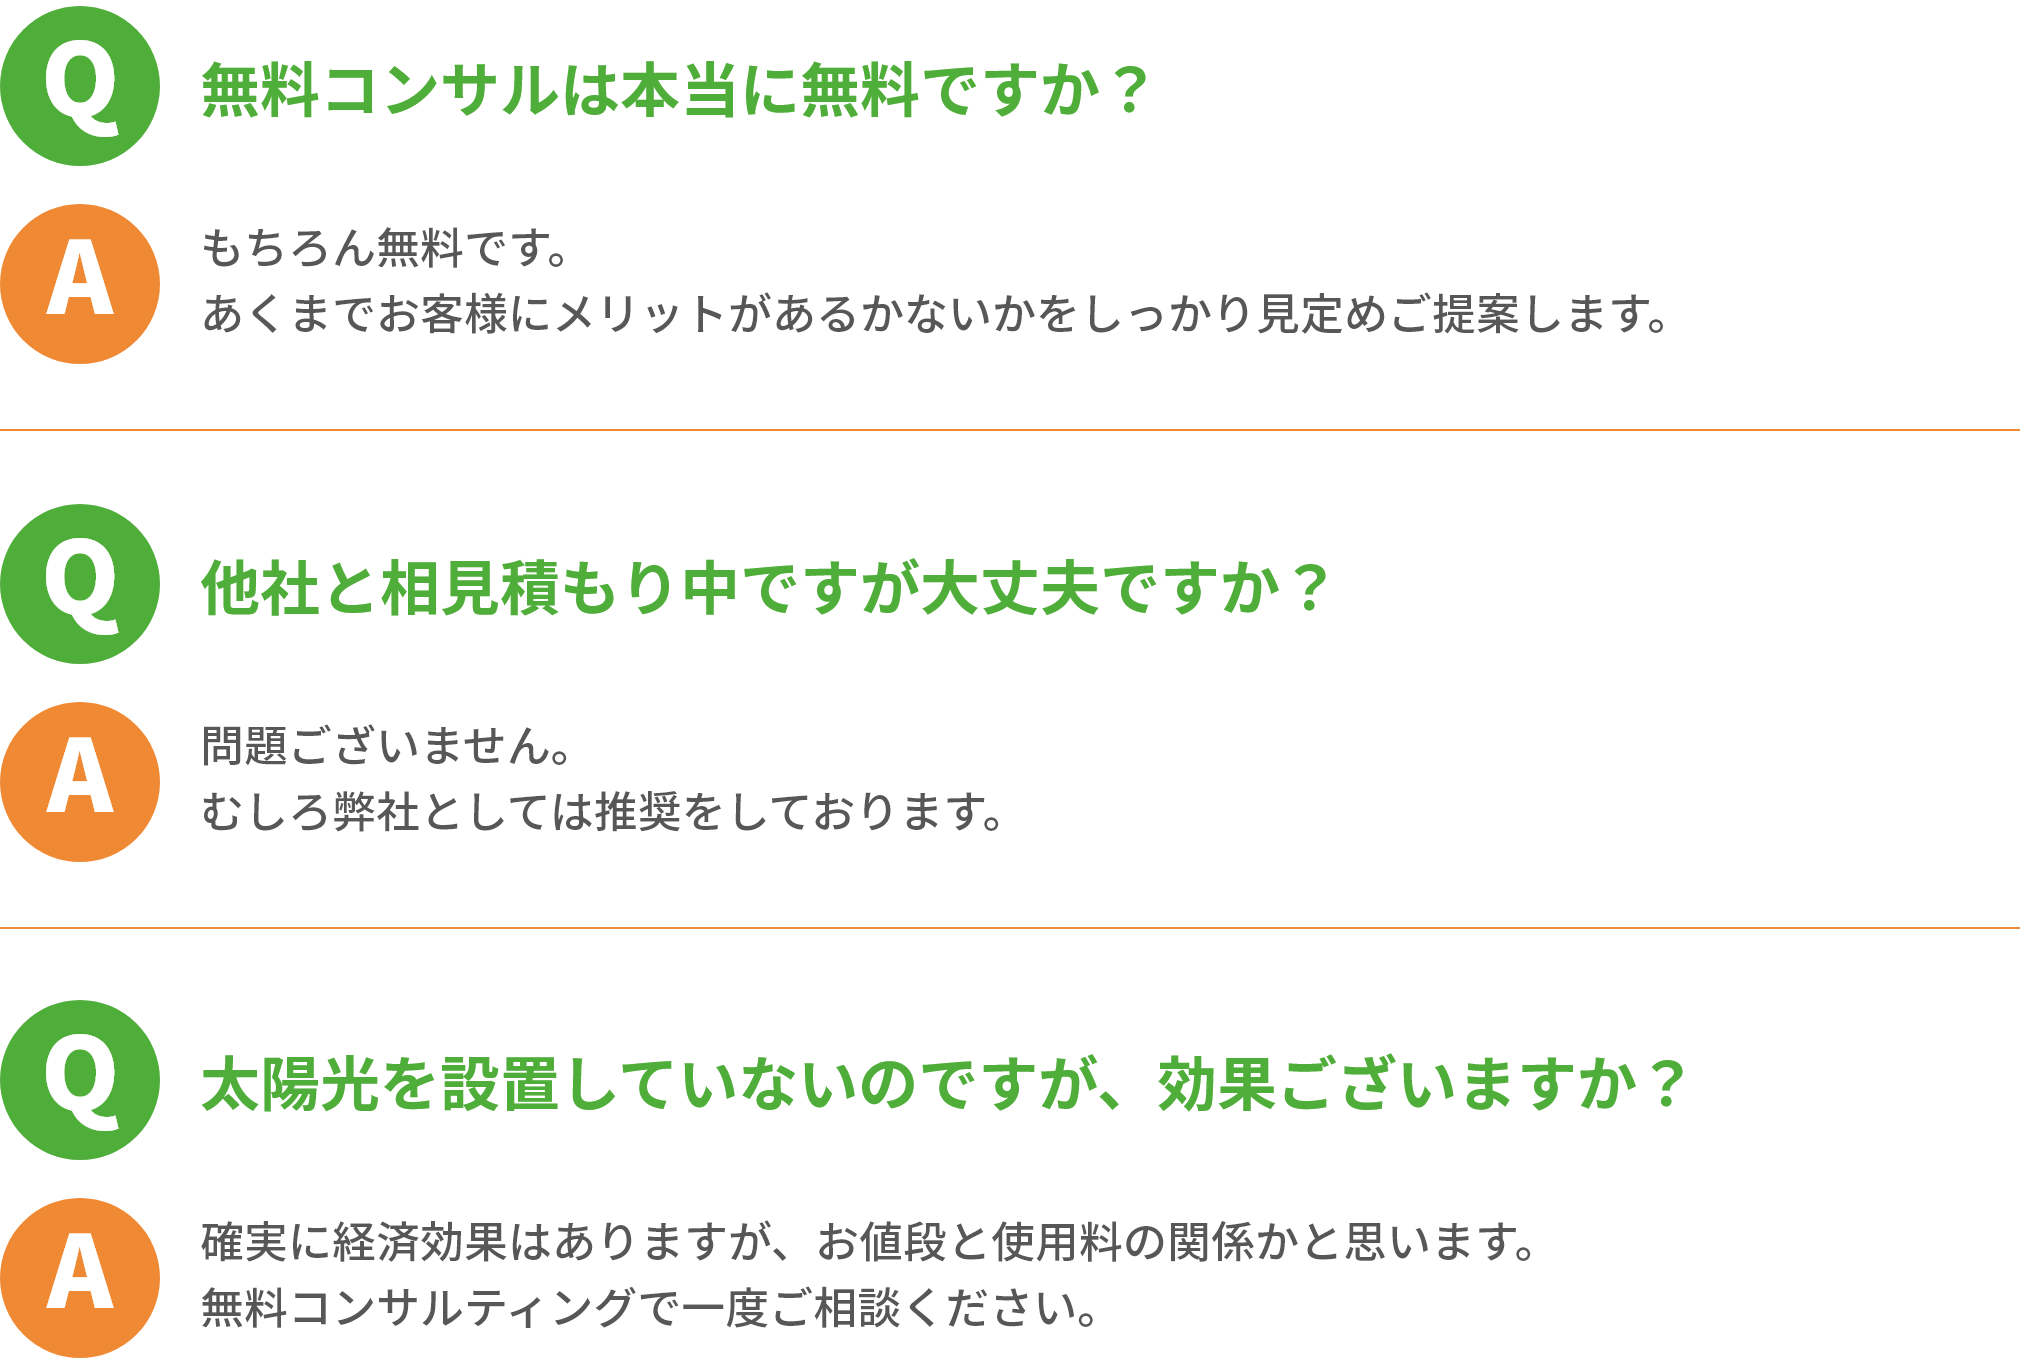
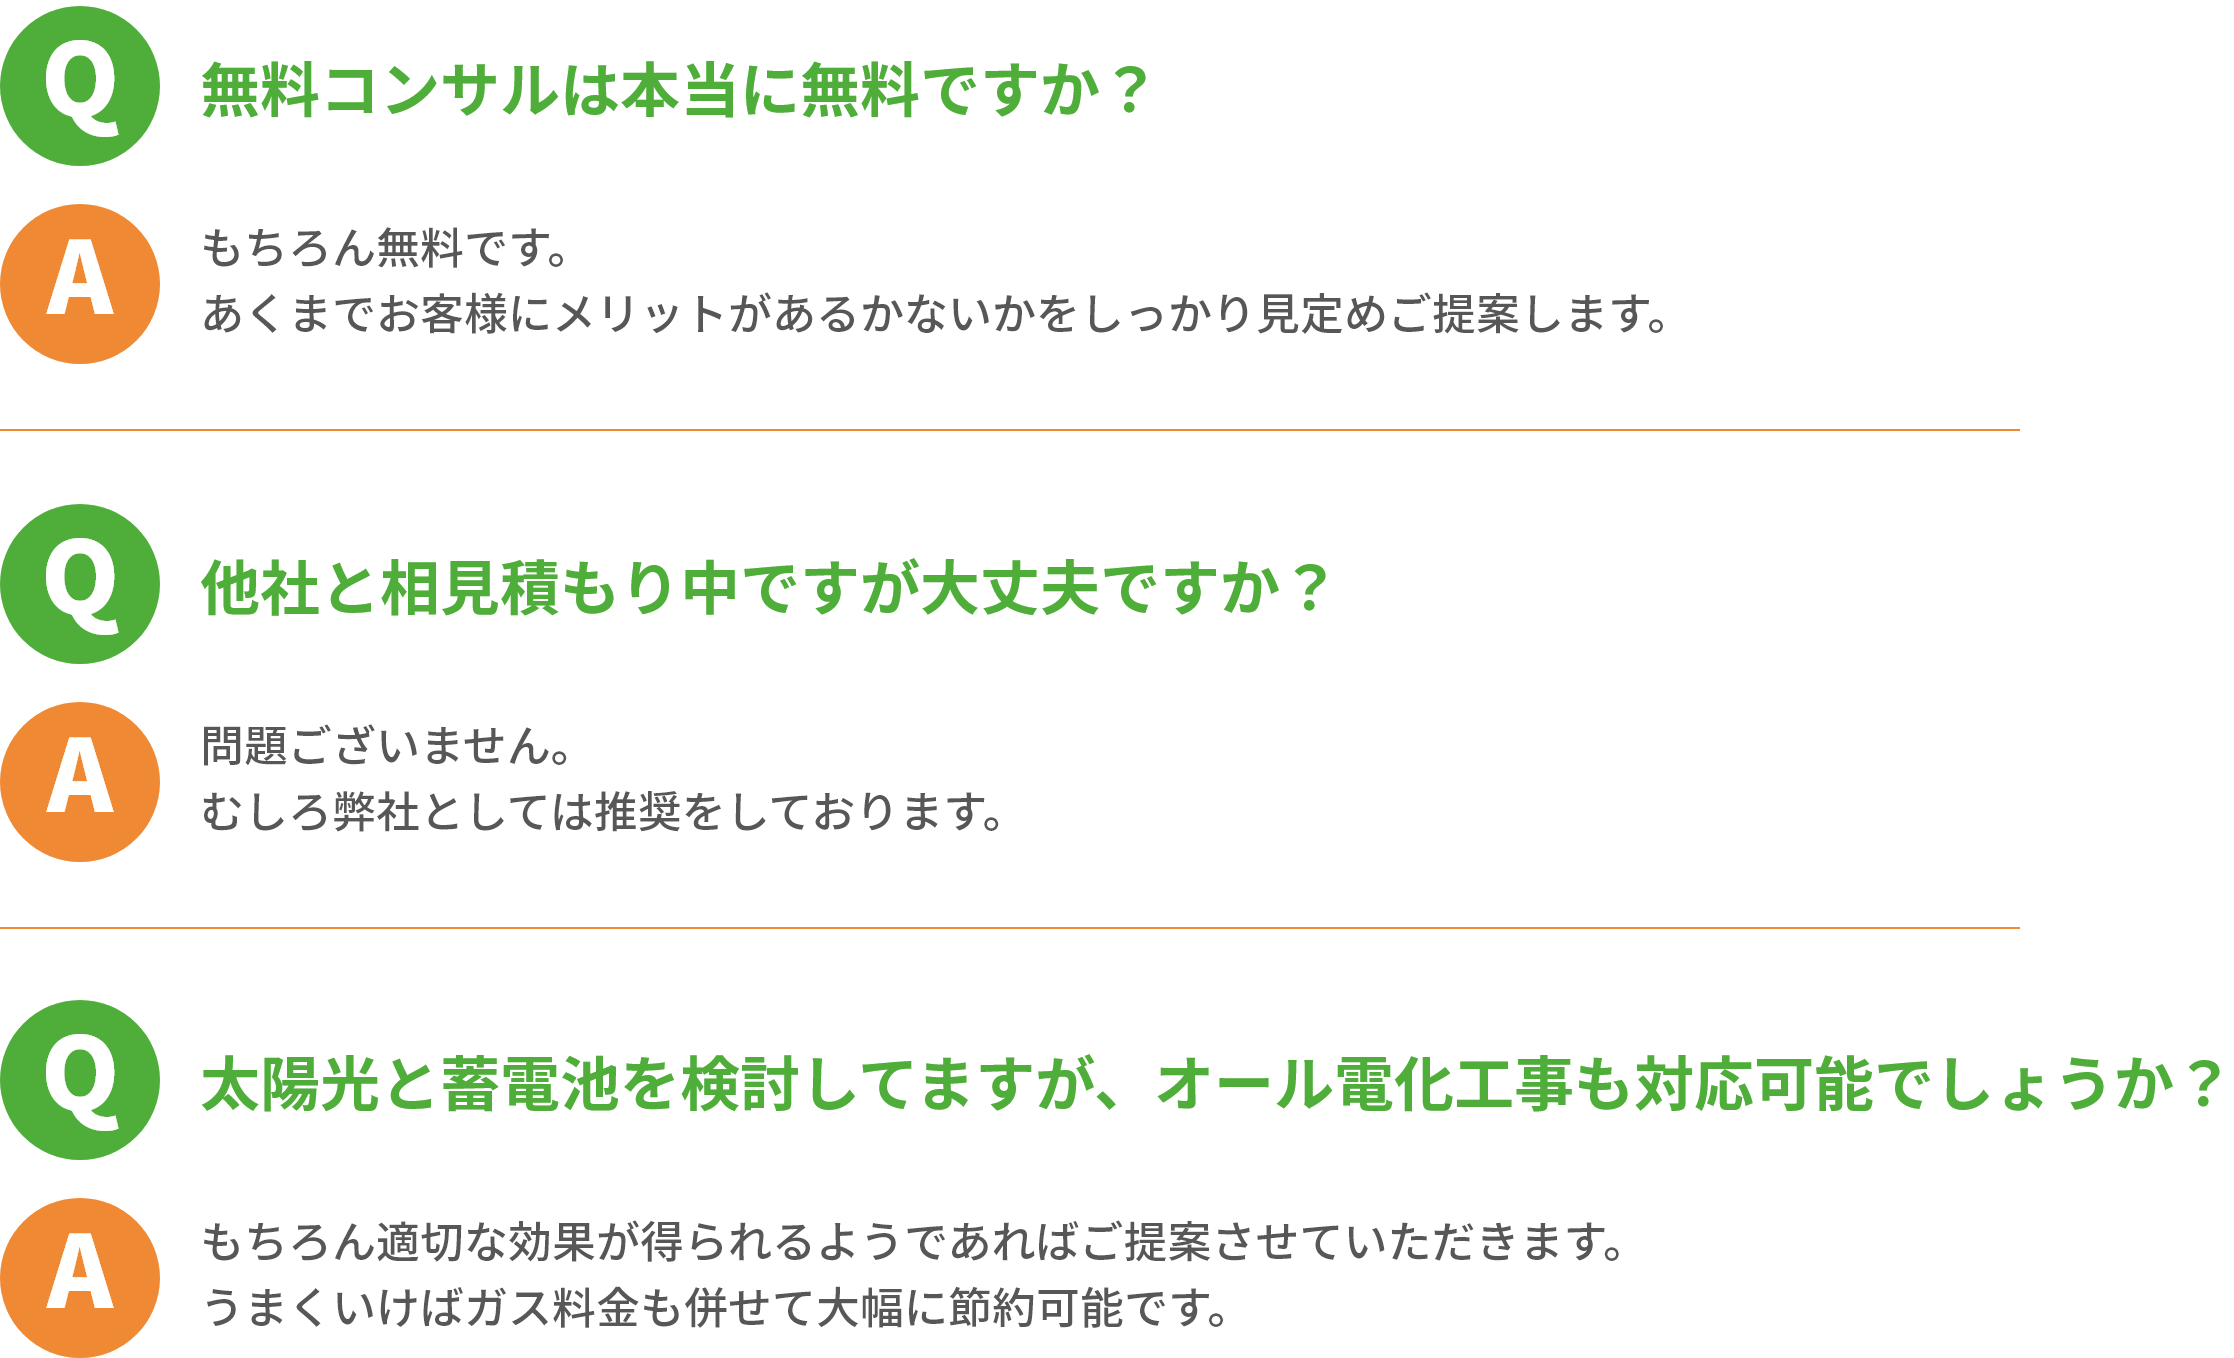
修正部分の対応

diff --git a/index.html b/index.html
@@ -16,7 +16,7 @@
   <header>
     <nav class="navbar navbar-light py-0">
       <div class="container-fluid pe-0">
-        <a class="navbar-brand w-75 py-0" href="#"><img src="image/header_logo.png" alt="" class="w-50"></a>
+        <a class="navbar-brand w-75 py-0" href="#"><img src="image/header_logo.png" alt="" class="w-25"></a>
         <!-- sp -->
         <button class="navbar-toggler d-md-none" type="button" data-bs-toggle="collapse"
           data-bs-target="#navbarNavAltMarkup" aria-controls="navbarNavAltMarkup" aria-expanded="false"
@@ -184,13 +184,7 @@
               <img src="image/reason1_fact.png" class="w-100 d-none d-md-block" alt="">
             </div>
             <div class="col">
-              <img src="image/reason1_fact.png" class="w-100 d-none d-md-block" alt="">
-            </div>
-            <div class="col">
-              <img src="image/reason1_fact.png" class="w-100 d-none d-md-block" alt="">
-            </div>
-            <div class="col">
-              <img src="image/reason1_fact.png" class="w-100 d-none d-md-block" alt="">
+              <img src="image/reason1_fact2.png" class="w-100 d-none d-md-block" alt="">
             </div>
           </div>
 
@@ -199,17 +193,10 @@
             <div class="col">
               <img src="image/reason1_fact.png" class="mx-auto w-100 d-md-none" alt="">
             </div>
-            <div class="col">
-              <img src="image/reason1_fact.png" class="mx-auto w-100 d-md-none" alt="">
-            </div>
             <p></p>
             <div class="col">
-              <img src="image/reason1_fact.png" class="mx-auto w-100 d-md-none" alt="">
+              <img src="image/reason1_fact2.png" class="mx-auto w-100 d-md-none" alt="">
             </div>
-            <div class="col">
-              <img src="image/reason1_fact.png" class="mx-auto w-100 d-md-none" alt="">
-            </div>
-
           </div>
         </div>
 
@@ -227,14 +214,13 @@
           営業～施工管理までワンストップのため少数精鋭
         </p>
         <p class="w-50 mx-auto mb-4" style="font-size: 1.3vw;">
-          文章が入ります文章が入ります文章が入ります文章が入ります。
+          新規の電話相談からアフターフォローまで1人のスタッフが対応します。<br>
+          工事部・受付スタッフ・アフター管理・施工管理すスタッフをなるべく減らし<br>
+          1人が責任もって最後まで蓄電池・太陽光導入をサポート
         </p>
         <div class="card border-0">
           <!-- PC -->
           <div class="row mx-auto w-50 mb-5">
-            <div class="col">
-              <img src="image/reason2_fact-1.png" class="w-100 d-none d-md-block" alt="">
-            </div>
             <div class="col">
               <img src="image/reason2_fact-1.png" class="w-100 d-none d-md-block" alt="">
             </div>
@@ -245,10 +231,6 @@
 
           <!-- SP -->
           <div class="row mx-auto w-50 mb-5">
-            <div class="col">
-              <img src="image/reason2_fact-1.png" class="w-100 d-md-none" alt="">
-            </div>
-            <p class="mt-2"></p>
             <div class="col">
               <img src="image/reason2_fact-1.png" class="w-100 d-md-none" alt="">
             </div>
@@ -273,8 +255,9 @@
           WEB集客のみに集中→店舗型を極力少なくしてコストカット
         </p>
         <p class="w-50 mx-auto mb-4" style="font-size: 1.3vw;">
-          文章が入ります文章が入ります文章が入ります文章が入ります。
-          <br>文章が入ります文章が入ります文章が入ります文章が入ります。
+          WEB集客のプロが多数いる当社はチラシ・店舗等のブランディングよりも、<br>
+          太陽光発電に興味あるお客様にダイレクトにアプローチ！！<br>
+          相互ＷＩＮＷＩＮを考えております。
         </p>
         <div class="card border-0">
           <!-- PC -->
@@ -291,9 +274,6 @@
             </div>
           </div>
         </div>
-        <p class="w-50 mx-auto mb-5" style="font-size: 1.3vw;">
-          文章が入ります文章が入ります文章が入ります文章が入ります。
-        </p>
 
 
         <!-- Nationwide support Card -->
@@ -352,8 +332,10 @@
           <img src="image/nattoku.png" class="w-50 mb-3 mt-5" alt="">
           <div class="left">
             <br>当社はあくまでお客様に合ったプランを提供することを目的としております。
-            <br>必要のない方にはオススメは致しません。
-            <br>まずは相談という方も是非当社にご相談ください！
+            <br>屋根の形・地域・電気使用量を総合的に判断して必要のない方にはオススメは致しません。
+            <br>他社に進められて悩んでる方・契約目前の方・ちょっとだけ太陽光・蓄電池に興味がある方・
+            <br>まずは相談という方も是非当社で！セカンドオピニオンとしてもお使いください。
+            <br>小さな１歩で快適な電気ライフを送れることをお約束いたします。
           </div>
           <img src="image/anshin_family.png" class="w-50 mb-3 mt-5" alt="">
         </div>
@@ -362,7 +344,7 @@
         <!-- 導入事例START -->
         <div class="w-100 mx-auto text-center">
           <img src="image/jirei_title.png" class="w-50 mx-auto" style="margin-top: 6%;" alt="">
-          <img src="image/zenkokutaiou.png" class="w-50 mx-auto" style="margin-top: 6%;" alt="">
+          <img src="image/zenkokutaiou.png" class="w-75 mx-auto" style="margin-top: 6%;" alt="">
 
         </div>
         <!-- 導入事例END -->
@@ -375,7 +357,7 @@
         <!-- 施工の流れEND -->
 
         <!-- よくある質問START -->
-        <div class="mt-5 w-100 mx-auto text-center">
+        <div class="mt-5 mb-3 w-100 mx-auto text-center">
           <img src="image/yokuaru.png" class="w-50 mx-auto" alt="">
           <img src="image/Q&A.png" class="w-50 mx-auto mb-5 mt-5" alt="">
           <a class="navbar-brand w-75" href="#"><img src="image/kuwashiku.png" class="w-50 mb-3" alt=""></a>
@@ -383,7 +365,7 @@
         <!-- よくある質問END -->
 
         <!-- 売却価格をチェックSTART -->
-        <div class="mb-5 mt-5 w-100 mx-auto text-center" style="background-color: #D8F5D1;">
+        <!-- <div class="mb-5 mt-5 w-100 mx-auto text-center" style="background-color: #D8F5D1;">
           <img src="image/baikyakukakaku.png" class="w-50 mx-auto mb-5 mt-5" alt="">
 
           <img src="image/now_elec.png" class="w-50 mb-3" alt="">
@@ -501,27 +483,20 @@
                 </div>
               </div>
             </div>
-          </div>
+          </div> -->
 
 
-          <img src="image/muryougenchi.png" class="w-50 mt-2 mb-5" alt="">
+          <!-- <img src="image/muryougenchi.png" class="w-50 mt-2 mb-5" alt=""> -->
         </div>
       </div>
       <!-- 売却価格をチェックEND -->
-
-      <!-- 安全対策START -->
-      <div class="mt-5 w-100 mx-auto text-center">
-        <img src="image/anzentaisaku.png" class="w-50 mx-auto" alt="">
-        <img src="image/7anzentaisaku.png" class="w-50 mx-auto mt-5 mb-5" alt="">
-      </div>
-      <!-- 安全対策END -->
     </div>
   </main>
 
   <!-- footer -->
   <footer>
     <div class="text-center" style="background-color:#FFDFC4;">
-      <img src="image/footer.png" class="my-3 w-50 mx-auto" alt="">
+      <img src="image/footer.png" class="my-5 w-50 mx-auto" alt="">
       <!-- <div class="col-1 px-0"><img src="image/header_logo.png" class="w-50 mb-3"></div>
       <div class="left">
         <br>運営会社
